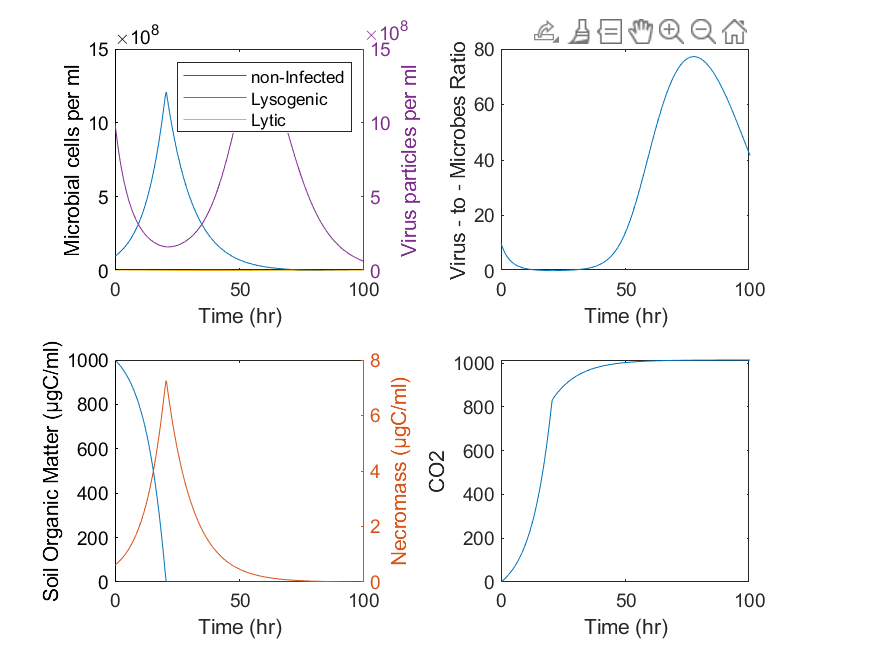
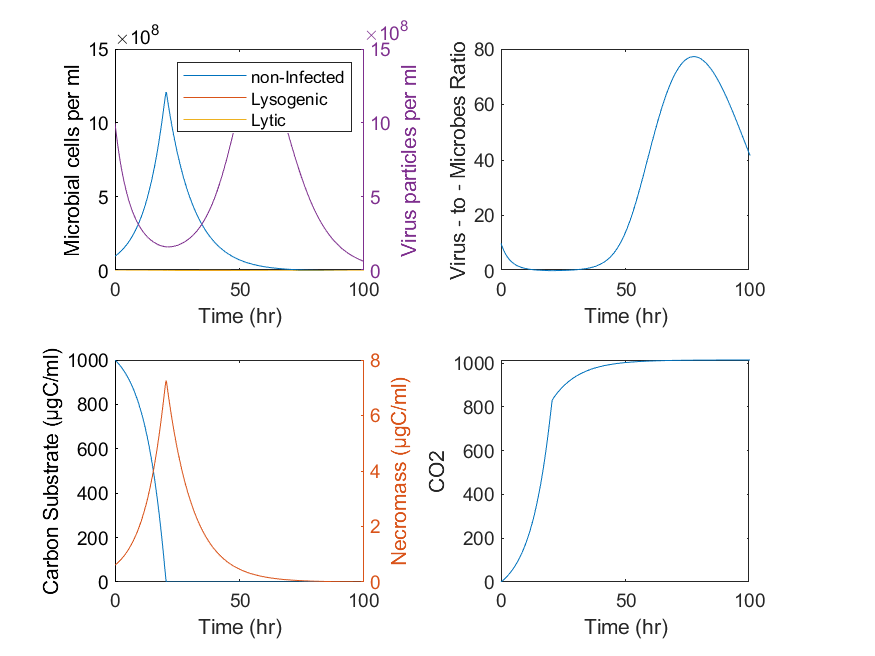
changing soil organic matter by carbon substrate

Changed region(s): [[0.0309, 0.5183, 0.0926, 0.9146], [0.6171, 0.0305, 0.864, 0.0915]]

diff --git a/Plotting_examples.m b/Plotting_examples.m
@@ -35,7 +35,7 @@ ylabel('Virus - to - Microbes Ratio')
 subplot(2,2,3);
 plot(Time,SOM)
 xlabel('Time (hr)')
-ylabel('Soil Organic Matter (µgC/ml)')
+ylabel('Carbon Substrate (µgC/ml)')
 yyaxis right
 plot(Time,Necromass)
 ylabel('Necromass (µgC/ml)')
@@ -88,7 +88,7 @@ ylabel('Virus - to - Microbes Ratio')
 subplot(2,2,3);
 plot(Time,SOM)
 xlabel('Time (hr)')
-ylabel('Soil Organic Matter (µgC/ml)')
+ylabel('Carbon Substrate (µgC/ml)')
 yyaxis right
 plot(Time,Necromass)
 ylabel('Necromass (µgC/ml)')
@@ -145,7 +145,7 @@ ylabel('Virus - to - Microbes Ratio')
 subplot(2,2,3);
 plot(Time,SOM)
 xlabel('Time (hr)')
-ylabel('Soil Organic Matter (µgC/ml)')
+ylabel('Carbon Substrate (µgC/ml)')
 yyaxis right
 plot(Time,Necromass)
 ylabel('Necromass (µgC/ml)')
